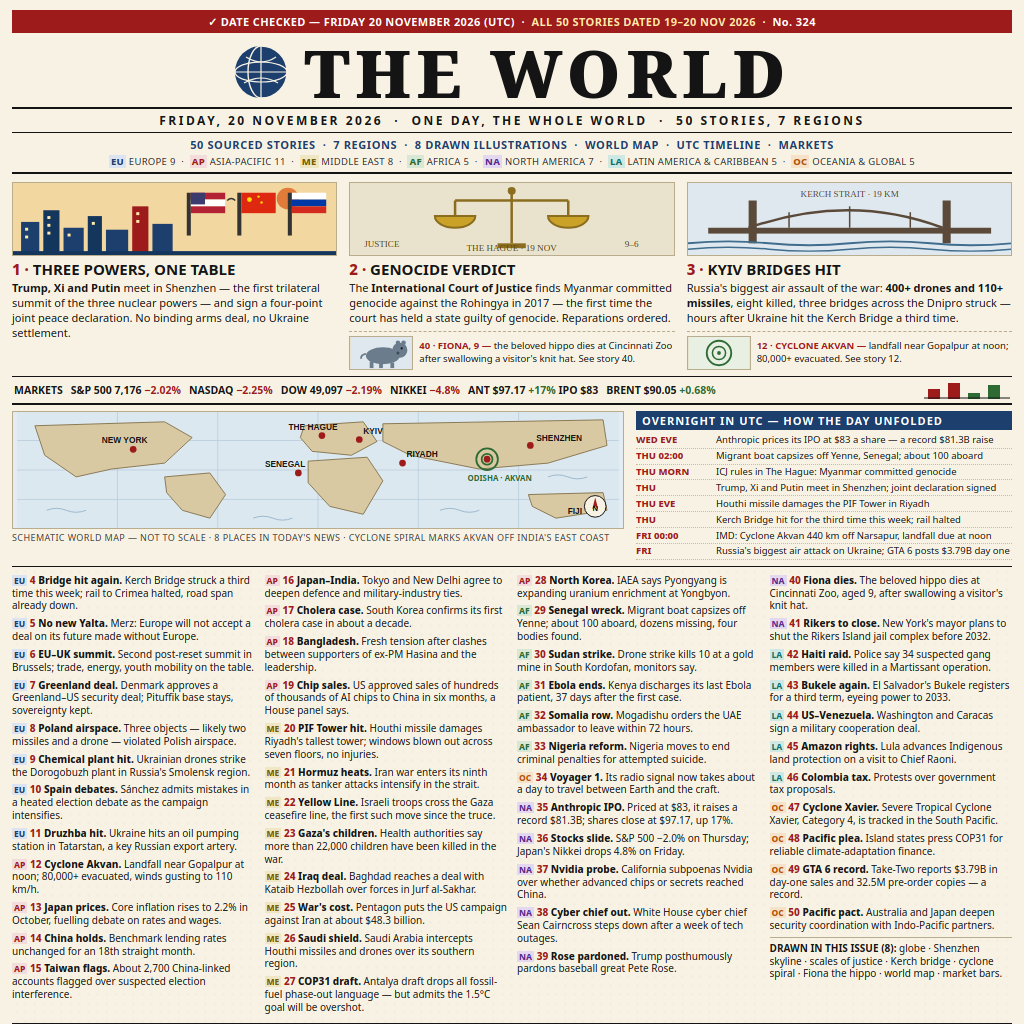
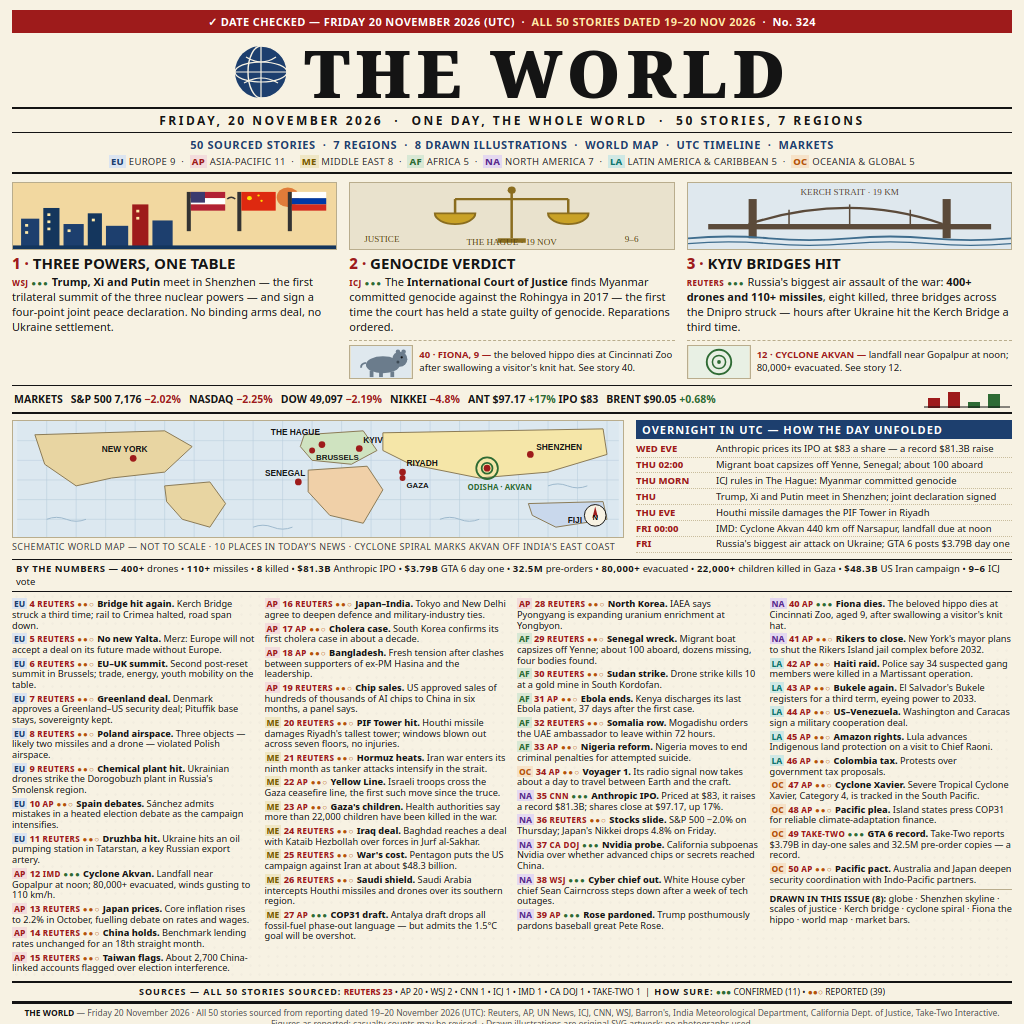
Add files via upload

diff --git a/frontpage.html b/frontpage.html
@@ -22,7 +22,7 @@
   /* ---- lead ---- */
   .lead { display:flex; gap:12px; padding:8px 0 6px; border-bottom:1px solid #141414; }
   .lp { flex:1; }
-  .lp svg.art { display:block; width:100%; height:74px; background:#e9e2cd;
+  .lp svg.art { display:block; width:100%; height:68px; background:#e9e2cd;
                 border:1px solid #b9ad8d; }
   .lp h2 { font-size:15px; line-height:1.15; margin:5px 0 3px; }
   .lp p { font-size:11px; line-height:1.35; }
@@ -52,13 +52,21 @@
   /* ---- story grid ---- */
   .grid { display:flex; gap:10px; padding:7px 0 4px; background-image:radial-gradient(circle, rgba(20,20,20,.02) 1px, transparent 1.5px); background-size:9px 9px; }
   .col { flex:1; }
-  .it { font-size:10px; line-height:1.28; margin-bottom:5px; }
+  .it { font-size:9.2px; line-height:1.16; margin-bottom:3px; }
   .it .n { color:#9e1b1b; font-weight:800; }
   .it .rg { font-weight:800; font-size:8.5px; }
   .rg{padding:0 2px;}
   .rg.eu{color:#1d3f6e;background:#dbe4f0}.rg.ap{color:#9e1b1b;background:#f3dcdc}.rg.me{color:#7a5c00;background:#efe6c4}.rg.af{color:#2e6b34;background:#d8e8d5}
   .rg.na{color:#5b2d8e;background:#e4d8f0}.rg.la{color:#0f766e;background:#cfe8e4}.rg.oc{color:#b45309;background:#f6e2c8}
   .it b.h { font-weight:800; }
+  .src { font-size:8px; font-weight:800; letter-spacing:.4px; color:#9e1b1b; }
+  .conf { font-size:8px; color:#2e6b34; letter-spacing:1px; }
+  .conf.med { color:#b45309; }
+  .srcmat { border-top:2px solid #141414; border-bottom:1px solid #141414; padding:3px 4px; font-size:8.5px; line-height:1.3; text-align:center; }
+  .srcmat b { font-size:9px; letter-spacing:1px; }
+  .srcmat .k { color:#9e1b1b; font-weight:800; }
+  .bynum { border-bottom:1px solid #141414; padding:3px 4px; font-size:9.5px; line-height:1.35; }
+  .bynum b { letter-spacing:.5px; }
   /* ---- footer ---- */
   .foot { border-top:2px solid #141414; padding-top:3px; font-size:8.5px; color:#555;
           line-height:1.35; text-align:center; }
@@ -92,7 +100,7 @@
         <rect x="0" y="70" width="320" height="4" fill="#14365d"/>
       </svg>
       <h2><span class="num">1 ·</span> THREE POWERS, ONE TABLE</h2>
-      <p><b>Trump, Xi and Putin</b> meet in Shenzhen — the first trilateral summit of the three nuclear powers — and sign a four-point joint peace declaration. No binding arms deal, no Ukraine settlement.</p>
+      <p><span class="src">WSJ</span> <span class="conf">&#9679;&#9679;&#9679;</span> <b>Trump, Xi and Putin</b> meet in Shenzhen — the first trilateral summit of the three nuclear powers — and sign a four-point joint peace declaration. No binding arms deal, no Ukraine settlement.</p>
     </div>
     <div class="lp">
       <svg class="art" viewBox="0 0 320 74" preserveAspectRatio="none">
@@ -110,7 +118,7 @@
         <text x="272" y="66" font-size="9" fill="#5c4a12" font-family="Georgia,serif">9–6</text>
       </svg>
       <h2><span class="num">2 ·</span> GENOCIDE VERDICT</h2>
-      <p>The <b>International Court of Justice</b> finds Myanmar committed genocide against the Rohingya in 2017 — the first time the court has held a state guilty of genocide. Reparations ordered.</p>
+      <p><span class="src">ICJ</span> <span class="conf">&#9679;&#9679;&#9679;</span> The <b>International Court of Justice</b> finds Myanmar committed genocide against the Rohingya in 2017 — the first time the court has held a state guilty of genocide. Reparations ordered.</p>
       <div class="mini">
         <svg viewBox="0 0 64 34"><rect width="64" height="34" fill="#dfe8ee"/><g fill="#6b7c8c"><ellipse cx="34" cy="20" rx="18" ry="9"/><circle cx="52" cy="14" r="8"/><circle cx="50" cy="6" r="2.4"/><circle cx="56" cy="6" r="2.4"/><rect x="20" y="26" width="4" height="7"/><rect x="30" y="27" width="4" height="6"/><rect x="42" y="27" width="4" height="6"/><path d="M16 18 q-6 1 -5 5" fill="none" stroke="#6b7c8c" stroke-width="2"/></g><circle cx="54" cy="12" r="1.2" fill="#141414"/><circle cx="50" cy="17" r="1.6" fill="#3d4a55"/></svg>
         <div><b>40 · FIONA, 9 —</b> the beloved hippo dies at Cincinnati Zoo after swallowing a visitor's knit hat. See story 40.</div>
@@ -128,7 +136,7 @@
         <text x="160" y="14" font-size="9" text-anchor="middle" fill="#5b4a3a" font-family="Georgia,serif">KERCH STRAIT · 19 KM</text>
       </svg>
       <h2><span class="num">3 ·</span> KYIV BRIDGES HIT</h2>
-      <p>Russia's biggest air assault of the war: <b>400+ drones and 110+ missiles</b>, eight killed, three bridges across the Dnipro struck — hours after Ukraine hit the Kerch Bridge a third time.</p>
+      <p><span class="src">REUTERS</span> <span class="conf">&#9679;&#9679;&#9679;</span> Russia's biggest air assault of the war: <b>400+ drones and 110+ missiles</b>, eight killed, three bridges across the Dnipro struck — hours after Ukraine hit the Kerch Bridge a third time.</p>
       <div class="mini">
         <svg viewBox="0 0 64 34"><rect width="64" height="34" fill="#e8f0e4"/><path d="M32 17 m-13 0 a13 13 0 1 1 26 0 a13 13 0 1 1 -26 0" fill="none" stroke="#2e6b34" stroke-width="2"/><path d="M32 17 m-7 0 a7 7 0 1 1 14 0 a7 7 0 1 1 -14 0" fill="none" stroke="#2e6b34" stroke-width="1.6"/><circle cx="32" cy="17" r="2" fill="#2e6b34"/></svg>
         <div><b>12 · CYCLONE AKVAN —</b> landfall near Gopalpur at noon; 80,000+ evacuated. See story 12.</div>
@@ -151,20 +159,20 @@
     <div class="mapbox">
       <svg viewBox="0 0 612 118">
         <rect width="612" height="118" fill="#dce8f0"/>
-        <g stroke="#b9cddd" stroke-width="0.8"><line x1="102" y1="0" x2="102" y2="118"/><line x1="204" y1="0" x2="204" y2="118"/><line x1="306" y1="0" x2="306" y2="118"/><line x1="408" y1="0" x2="408" y2="118"/><line x1="510" y1="0" x2="510" y2="118"/><line x1="0" y1="29" x2="612" y2="29"/><line x1="0" y1="59" x2="612" y2="59"/><line x1="0" y1="89" x2="612" y2="89"/></g>
+        <g stroke="#b9cddd" stroke-width="0.6"><line x1="30" y1="0" x2="30" y2="118"/><line x1="60" y1="0" x2="60" y2="118"/><line x1="90" y1="0" x2="90" y2="118"/><line x1="120" y1="0" x2="120" y2="118"/><line x1="150" y1="0" x2="150" y2="118"/><line x1="180" y1="0" x2="180" y2="118"/><line x1="210" y1="0" x2="210" y2="118"/><line x1="240" y1="0" x2="240" y2="118"/><line x1="270" y1="0" x2="270" y2="118"/><line x1="300" y1="0" x2="300" y2="118"/><line x1="330" y1="0" x2="330" y2="118"/><line x1="360" y1="0" x2="360" y2="118"/><line x1="390" y1="0" x2="390" y2="118"/><line x1="420" y1="0" x2="420" y2="118"/><line x1="450" y1="0" x2="450" y2="118"/><line x1="480" y1="0" x2="480" y2="118"/><line x1="510" y1="0" x2="510" y2="118"/><line x1="540" y1="0" x2="540" y2="118"/><line x1="570" y1="0" x2="570" y2="118"/><line x1="600" y1="0" x2="600" y2="118"/><line x1="0" y1="20" x2="612" y2="20"/><line x1="0" y1="40" x2="612" y2="40"/><line x1="0" y1="60" x2="612" y2="60"/><line x1="0" y1="80" x2="612" y2="80"/><line x1="0" y1="100" x2="612" y2="100"/></g>
         <g fill="none" stroke="#9db8cc" stroke-width="1"><path d="M30 100 q10 -4 20 0 t20 0"/><path d="M240 108 q10 -4 20 0 t20 0"/><path d="M430 100 q10 -4 20 0 t20 0"/><path d="M540 66 q10 -4 20 0 t20 0"/></g>
         <g fill="#d8c9a3" stroke="#8a7a55" stroke-width="1">
-          <path d="M18 14 L150 10 L178 26 L150 52 L96 58 L60 66 L28 44 Z"/>
-          <path d="M150 66 L196 62 L212 84 L196 108 L168 100 L152 82 Z"/>
-          <path d="M292 14 L352 10 L366 30 L340 44 L300 40 L288 26 Z"/>
-          <path d="M296 50 L356 46 L372 70 L352 104 L318 96 L296 72 Z"/>
-          <path d="M372 12 L596 8 L600 34 L540 52 L470 58 L400 44 L372 30 Z"/>
-          <path d="M520 84 L596 82 L600 100 L548 108 L524 96 Z"/>
+          <path d="M18 14 L150 10 L178 26 L150 52 L96 58 L60 66 L28 44 Z" fill="#e8d5a2"/>
+          <path d="M150 66 L196 62 L212 84 L196 108 L168 100 L152 82 Z" fill="#e8d5a2"/>
+          <path d="M292 14 L352 10 L366 30 L340 44 L300 40 L288 26 Z" fill="#cfe3c0"/>
+          <path d="M296 50 L356 46 L372 70 L352 104 L318 96 L296 72 Z" fill="#f0d0a8"/>
+          <path d="M372 12 L596 8 L600 34 L540 52 L470 58 L400 44 L372 30 Z" fill="#f5e6a8"/>
+          <path d="M520 84 L596 82 L600 100 L548 108 L524 96 Z" fill="#c9d8ec"/>
         </g>
-        <g fill="#9e1b1b"><circle cx="522" cy="34" r="3.4"/><circle cx="310" cy="24" r="3.4"/><circle cx="348" cy="28" r="3.4"/><circle cx="392" cy="52" r="3.4"/><circle cx="478" cy="48" r="3.4"/><circle cx="286" cy="62" r="3.4"/><circle cx="118" cy="38" r="3.4"/><circle cx="586" cy="92" r="3.4"/></g>
+        <g fill="#9e1b1b"><circle cx="300" cy="30" r="3"/><circle cx="392" cy="58" r="3"/><circle cx="522" cy="34" r="3.4"/><circle cx="310" cy="24" r="3.4"/><circle cx="348" cy="28" r="3.4"/><circle cx="392" cy="52" r="3.4"/><circle cx="478" cy="48" r="3.4"/><circle cx="286" cy="62" r="3.4"/><circle cx="118" cy="38" r="3.4"/><circle cx="586" cy="92" r="3.4"/></g>
         <g font-size="8.5" fill="#141414" font-family="Arial,sans-serif" font-weight="bold">
-          <text x="528" y="30">SHENZHEN</text><text x="276" y="18">THE HAGUE</text>
-          <text x="352" y="22">KYIV</text><text x="396" y="46">RIYADH</text>
+          <text x="528" y="30">SHENZHEN</text><text x="258" y="14">THE HAGUE</text>
+          <text x="352" y="22">KYIV</text><text x="304" y="40" font-size="8">BRUSSELS</text><text x="396" y="68" font-size="8">GAZA</text><text x="396" y="46">RIYADH</text>
           <text x="252" y="56">SENEGAL</text>
           <text x="86" y="32">NEW YORK</text><text x="560" y="104">FIJI</text>
         </g>
@@ -172,7 +180,7 @@
         <g transform="translate(588,96)"><circle r="11" fill="#f7f2e3" stroke="#141414" stroke-width="1"/><path d="M0 -9 L3 3 L0 0 L-3 3 Z" fill="#9e1b1b"/><text y="4.5" font-size="7" text-anchor="middle" font-weight="bold">N</text></g>
         <text x="458" y="70" font-size="8" fill="#2e6b34" font-weight="bold">ODISHA · AKVAN</text>
       </svg>
-      <div class="mapcap">SCHEMATIC WORLD MAP — NOT TO SCALE · 8 PLACES IN TODAY'S NEWS · CYCLONE SPIRAL MARKS AKVAN OFF INDIA'S EAST COAST</div>
+      <div class="mapcap">SCHEMATIC WORLD MAP — NOT TO SCALE · 10 PLACES IN TODAY'S NEWS · CYCLONE SPIRAL MARKS AKVAN OFF INDIA'S EAST COAST</div>
     </div>
     <div class="tl">
       <h3>OVERNIGHT IN UTC — HOW THE DAY UNFOLDED</h3>
@@ -181,71 +189,72 @@
       <div class="row"><span class="t">THU MORN</span><span>ICJ rules in The Hague: Myanmar committed genocide</span></div>
       <div class="row"><span class="t">THU</span><span>Trump, Xi and Putin meet in Shenzhen; joint declaration signed</span></div>
       <div class="row"><span class="t">THU EVE</span><span>Houthi missile damages the PIF Tower in Riyadh</span></div>
-      <div class="row"><span class="t">THU</span><span>Kerch Bridge hit for the third time this week; rail halted</span></div>
-      <div class="row"><span class="t">FRI 00:00</span><span>IMD: Cyclone Akvan 440 km off Narsapur, landfall due at noon</span></div>
+            <div class="row"><span class="t">FRI 00:00</span><span>IMD: Cyclone Akvan 440 km off Narsapur, landfall due at noon</span></div>
       <div class="row"><span class="t">FRI</span><span>Russia's biggest air attack on Ukraine; GTA 6 posts $3.79B day one</span></div>
     </div>
   </div>
 
+<div class="bynum"><b>BY THE NUMBERS &mdash;</b> <b>400+</b> drones &bull; <b>110+</b> missiles &bull; <b>8</b> killed &bull; <b>$81.3B</b> Anthropic IPO &bull; <b>$3.79B</b> GTA 6 day one &bull; <b>32.5M</b> pre-orders &bull; <b>80,000+</b> evacuated &bull; <b>22,000+</b> children killed in Gaza &bull; <b>$48.3B</b> US Iran campaign &bull; <b>9&ndash;6</b> ICJ vote</div>
   <div class="grid">
     <div class="col">
-      <div class="it"><span class="rg eu">EU</span> <span class="n">4</span> <b class="h">Bridge hit again.</b> Kerch Bridge struck a third time this week; rail to Crimea halted, road span already down.</div>
-      <div class="it"><span class="rg eu">EU</span> <span class="n">5</span> <b class="h">No new Yalta.</b> Merz: Europe will not accept a deal on its future made without Europe.</div>
-      <div class="it"><span class="rg eu">EU</span> <span class="n">6</span> <b class="h">EU–UK summit.</b> Second post-reset summit in Brussels; trade, energy, youth mobility on the table.</div>
-      <div class="it"><span class="rg eu">EU</span> <span class="n">7</span> <b class="h">Greenland deal.</b> Denmark approves a Greenland–US security deal; Pituffik base stays, sovereignty kept.</div>
-      <div class="it"><span class="rg eu">EU</span> <span class="n">8</span> <b class="h">Poland airspace.</b> Three objects — likely two missiles and a drone — violated Polish airspace.</div>
-      <div class="it"><span class="rg eu">EU</span> <span class="n">9</span> <b class="h">Chemical plant hit.</b> Ukrainian drones strike the Dorogobuzh plant in Russia's Smolensk region.</div>
-      <div class="it"><span class="rg eu">EU</span> <span class="n">10</span> <b class="h">Spain debates.</b> Sánchez admits mistakes in a heated election debate as the campaign intensifies.</div>
-      <div class="it"><span class="rg eu">EU</span> <span class="n">11</span> <b class="h">Druzhba hit.</b> Ukraine hits an oil pumping station in Tatarstan, a key Russian export artery.</div>
-      <div class="it"><span class="rg ap">AP</span> <span class="n">12</span> <b class="h">Cyclone Akvan.</b> Landfall near Gopalpur at noon; 80,000+ evacuated, winds gusting to 110 km/h.</div>
-      <div class="it"><span class="rg ap">AP</span> <span class="n">13</span> <b class="h">Japan prices.</b> Core inflation rises to 2.2% in October, fuelling debate on rates and wages.</div>
-      <div class="it"><span class="rg ap">AP</span> <span class="n">14</span> <b class="h">China holds.</b> Benchmark lending rates unchanged for an 18th straight month.</div>
-      <div class="it"><span class="rg ap">AP</span> <span class="n">15</span> <b class="h">Taiwan flags.</b> About 2,700 China-linked accounts flagged over suspected election interference.</div>
+      <div class="it"><span class="rg eu">EU</span> <span class="n">4</span> <span class="src">REUTERS</span> <span class="conf med">&#9679;&#9679;&#9675;</span> <b class="h">Bridge hit again.</b> Kerch Bridge struck a third time; rail to Crimea halted, road span down.</div>
+      <div class="it"><span class="rg eu">EU</span> <span class="n">5</span> <span class="src">REUTERS</span> <span class="conf med">&#9679;&#9679;&#9675;</span> <b class="h">No new Yalta.</b> Merz: Europe will not accept a deal on its future made without Europe.</div>
+      <div class="it"><span class="rg eu">EU</span> <span class="n">6</span> <span class="src">REUTERS</span> <span class="conf med">&#9679;&#9679;&#9675;</span> <b class="h">EU–UK summit.</b> Second post-reset summit in Brussels; trade, energy, youth mobility on the table.</div>
+      <div class="it"><span class="rg eu">EU</span> <span class="n">7</span> <span class="src">REUTERS</span> <span class="conf med">&#9679;&#9679;&#9675;</span> <b class="h">Greenland deal.</b> Denmark approves a Greenland–US security deal; Pituffik base stays, sovereignty kept.</div>
+      <div class="it"><span class="rg eu">EU</span> <span class="n">8</span> <span class="src">REUTERS</span> <span class="conf med">&#9679;&#9679;&#9675;</span> <b class="h">Poland airspace.</b> Three objects — likely two missiles and a drone — violated Polish airspace.</div>
+      <div class="it"><span class="rg eu">EU</span> <span class="n">9</span> <span class="src">REUTERS</span> <span class="conf med">&#9679;&#9679;&#9675;</span> <b class="h">Chemical plant hit.</b> Ukrainian drones strike the Dorogobuzh plant in Russia's Smolensk region.</div>
+      <div class="it"><span class="rg eu">EU</span> <span class="n">10</span> <span class="src">AP</span> <span class="conf med">&#9679;&#9679;&#9675;</span> <b class="h">Spain debates.</b> Sánchez admits mistakes in a heated election debate as the campaign intensifies.</div>
+      <div class="it"><span class="rg eu">EU</span> <span class="n">11</span> <span class="src">REUTERS</span> <span class="conf med">&#9679;&#9679;&#9675;</span> <b class="h">Druzhba hit.</b> Ukraine hits an oil pumping station in Tatarstan, a key Russian export artery.</div>
+      <div class="it"><span class="rg ap">AP</span> <span class="n">12</span> <span class="src">IMD</span> <span class="conf">&#9679;&#9679;&#9679;</span> <b class="h">Cyclone Akvan.</b> Landfall near Gopalpur at noon; 80,000+ evacuated, winds gusting to 110 km/h.</div>
+      <div class="it"><span class="rg ap">AP</span> <span class="n">13</span> <span class="src">REUTERS</span> <span class="conf med">&#9679;&#9679;&#9675;</span> <b class="h">Japan prices.</b> Core inflation rises to 2.2% in October, fuelling debate on rates and wages.</div>
+      <div class="it"><span class="rg ap">AP</span> <span class="n">14</span> <span class="src">REUTERS</span> <span class="conf med">&#9679;&#9679;&#9675;</span> <b class="h">China holds.</b> Benchmark lending rates unchanged for an 18th straight month.</div>
+      <div class="it"><span class="rg ap">AP</span> <span class="n">15</span> <span class="src">REUTERS</span> <span class="conf med">&#9679;&#9679;&#9675;</span> <b class="h">Taiwan flags.</b> About 2,700 China-linked accounts flagged over election interference.</div>
     </div>
     <div class="col">
-      <div class="it"><span class="rg ap">AP</span> <span class="n">16</span> <b class="h">Japan–India.</b> Tokyo and New Delhi agree to deepen defence and military-industry ties.</div>
-      <div class="it"><span class="rg ap">AP</span> <span class="n">17</span> <b class="h">Cholera case.</b> South Korea confirms its first cholera case in about a decade.</div>
-      <div class="it"><span class="rg ap">AP</span> <span class="n">18</span> <b class="h">Bangladesh.</b> Fresh tension after clashes between supporters of ex-PM Hasina and the leadership.</div>
-      <div class="it"><span class="rg ap">AP</span> <span class="n">19</span> <b class="h">Chip sales.</b> US approved sales of hundreds of thousands of AI chips to China in six months, a House panel says.</div>
-      <div class="it"><span class="rg me">ME</span> <span class="n">20</span> <b class="h">PIF Tower hit.</b> Houthi missile damages Riyadh's tallest tower; windows blown out across seven floors, no injuries.</div>
-      <div class="it"><span class="rg me">ME</span> <span class="n">21</span> <b class="h">Hormuz heats.</b> Iran war enters its ninth month as tanker attacks intensify in the strait.</div>
-      <div class="it"><span class="rg me">ME</span> <span class="n">22</span> <b class="h">Yellow Line.</b> Israeli troops cross the Gaza ceasefire line, the first such move since the truce.</div>
-      <div class="it"><span class="rg me">ME</span> <span class="n">23</span> <b class="h">Gaza's children.</b> Health authorities say more than 22,000 children have been killed in the war.</div>
-      <div class="it"><span class="rg me">ME</span> <span class="n">24</span> <b class="h">Iraq deal.</b> Baghdad reaches a deal with Kataib Hezbollah over forces in Jurf al-Sakhar.</div>
-      <div class="it"><span class="rg me">ME</span> <span class="n">25</span> <b class="h">War's cost.</b> Pentagon puts the US campaign against Iran at about $48.3 billion.</div>
-      <div class="it"><span class="rg me">ME</span> <span class="n">26</span> <b class="h">Saudi shield.</b> Saudi Arabia intercepts Houthi missiles and drones over its southern region.</div>
-      <div class="it"><span class="rg me">ME</span> <span class="n">27</span> <b class="h">COP31 draft.</b> Antalya draft drops all fossil-fuel phase-out language — but admits the 1.5°C goal will be overshot.</div>
+      <div class="it"><span class="rg ap">AP</span> <span class="n">16</span> <span class="src">REUTERS</span> <span class="conf med">&#9679;&#9679;&#9675;</span> <b class="h">Japan–India.</b> Tokyo and New Delhi agree to deepen defence and military-industry ties.</div>
+      <div class="it"><span class="rg ap">AP</span> <span class="n">17</span> <span class="src">AP</span> <span class="conf med">&#9679;&#9679;&#9675;</span> <b class="h">Cholera case.</b> South Korea confirms its first cholera case in about a decade.</div>
+      <div class="it"><span class="rg ap">AP</span> <span class="n">18</span> <span class="src">AP</span> <span class="conf med">&#9679;&#9679;&#9675;</span> <b class="h">Bangladesh.</b> Fresh tension after clashes between supporters of ex-PM Hasina and the leadership.</div>
+      <div class="it"><span class="rg ap">AP</span> <span class="n">19</span> <span class="src">REUTERS</span> <span class="conf med">&#9679;&#9679;&#9675;</span> <b class="h">Chip sales.</b> US approved sales of hundreds of thousands of AI chips to China in six months, a panel says.</div>
+      <div class="it"><span class="rg me">ME</span> <span class="n">20</span> <span class="src">REUTERS</span> <span class="conf med">&#9679;&#9679;&#9675;</span> <b class="h">PIF Tower hit.</b> Houthi missile damages Riyadh's tallest tower; windows blown out across seven floors, no injuries.</div>
+      <div class="it"><span class="rg me">ME</span> <span class="n">21</span> <span class="src">REUTERS</span> <span class="conf med">&#9679;&#9679;&#9675;</span> <b class="h">Hormuz heats.</b> Iran war enters its ninth month as tanker attacks intensify in the strait.</div>
+      <div class="it"><span class="rg me">ME</span> <span class="n">22</span> <span class="src">AP</span> <span class="conf med">&#9679;&#9679;&#9675;</span> <b class="h">Yellow Line.</b> Israeli troops cross the Gaza ceasefire line, the first such move since the truce.</div>
+      <div class="it"><span class="rg me">ME</span> <span class="n">23</span> <span class="src">AP</span> <span class="conf med">&#9679;&#9679;&#9675;</span> <b class="h">Gaza's children.</b> Health authorities say more than 22,000 children have been killed in the war.</div>
+      <div class="it"><span class="rg me">ME</span> <span class="n">24</span> <span class="src">REUTERS</span> <span class="conf med">&#9679;&#9679;&#9675;</span> <b class="h">Iraq deal.</b> Baghdad reaches a deal with Kataib Hezbollah over forces in Jurf al-Sakhar.</div>
+      <div class="it"><span class="rg me">ME</span> <span class="n">25</span> <span class="src">REUTERS</span> <span class="conf med">&#9679;&#9679;&#9675;</span> <b class="h">War's cost.</b> Pentagon puts the US campaign against Iran at about $48.3 billion.</div>
+      <div class="it"><span class="rg me">ME</span> <span class="n">26</span> <span class="src">REUTERS</span> <span class="conf med">&#9679;&#9679;&#9675;</span> <b class="h">Saudi shield.</b> Saudi Arabia intercepts Houthi missiles and drones over its southern region.</div>
+      <div class="it"><span class="rg me">ME</span> <span class="n">27</span> <span class="src">AP</span> <span class="conf">&#9679;&#9679;&#9679;</span> <b class="h">COP31 draft.</b> Antalya draft drops all fossil-fuel phase-out language — but admits the 1.5°C goal will be overshot.</div>
     </div>
     <div class="col">
-      <div class="it"><span class="rg ap">AP</span> <span class="n">28</span> <b class="h">North Korea.</b> IAEA says Pyongyang is expanding uranium enrichment at Yongbyon.</div>
-      <div class="it"><span class="rg af">AF</span> <span class="n">29</span> <b class="h">Senegal wreck.</b> Migrant boat capsizes off Yenne; about 100 aboard, dozens missing, four bodies found.</div>
-      <div class="it"><span class="rg af">AF</span> <span class="n">30</span> <b class="h">Sudan strike.</b> Drone strike kills 10 at a gold mine in South Kordofan, monitors say.</div>
-      <div class="it"><span class="rg af">AF</span> <span class="n">31</span> <b class="h">Ebola ends.</b> Kenya discharges its last Ebola patient, 37 days after the first case.</div>
-      <div class="it"><span class="rg af">AF</span> <span class="n">32</span> <b class="h">Somalia row.</b> Mogadishu orders the UAE ambassador to leave within 72 hours.</div>
-      <div class="it"><span class="rg af">AF</span> <span class="n">33</span> <b class="h">Nigeria reform.</b> Nigeria moves to end criminal penalties for attempted suicide.</div>
-      <div class="it"><span class="rg oc">OC</span> <span class="n">34</span> <b class="h">Voyager 1.</b> Its radio signal now takes about a day to travel between Earth and the craft.</div>
-      <div class="it"><span class="rg na">NA</span> <span class="n">35</span> <b class="h">Anthropic IPO.</b> Priced at $83, it raises a record $81.3B; shares close at $97.17, up 17%.</div>
-      <div class="it"><span class="rg na">NA</span> <span class="n">36</span> <b class="h">Stocks slide.</b> S&amp;P 500 −2.0% on Thursday; Japan's Nikkei drops 4.8% on Friday.</div>
-      <div class="it"><span class="rg na">NA</span> <span class="n">37</span> <b class="h">Nvidia probe.</b> California subpoenas Nvidia over whether advanced chips or secrets reached China.</div>
-      <div class="it"><span class="rg na">NA</span> <span class="n">38</span> <b class="h">Cyber chief out.</b> White House cyber chief Sean Cairncross steps down after a week of tech outages.</div>
-      <div class="it"><span class="rg na">NA</span> <span class="n">39</span> <b class="h">Rose pardoned.</b> Trump posthumously pardons baseball great Pete Rose.</div>
+      <div class="it"><span class="rg ap">AP</span> <span class="n">28</span> <span class="src">REUTERS</span> <span class="conf med">&#9679;&#9679;&#9675;</span> <b class="h">North Korea.</b> IAEA says Pyongyang is expanding uranium enrichment at Yongbyon.</div>
+      <div class="it"><span class="rg af">AF</span> <span class="n">29</span> <span class="src">REUTERS</span> <span class="conf med">&#9679;&#9679;&#9675;</span> <b class="h">Senegal wreck.</b> Migrant boat capsizes off Yenne; about 100 aboard, dozens missing, four bodies found.</div>
+      <div class="it"><span class="rg af">AF</span> <span class="n">30</span> <span class="src">REUTERS</span> <span class="conf med">&#9679;&#9679;&#9675;</span> <b class="h">Sudan strike.</b> Drone strike kills 10 at a gold mine in South Kordofan.</div>
+      <div class="it"><span class="rg af">AF</span> <span class="n">31</span> <span class="src">AP</span> <span class="conf med">&#9679;&#9679;&#9675;</span> <b class="h">Ebola ends.</b> Kenya discharges its last Ebola patient, 37 days after the first case.</div>
+      <div class="it"><span class="rg af">AF</span> <span class="n">32</span> <span class="src">REUTERS</span> <span class="conf med">&#9679;&#9679;&#9675;</span> <b class="h">Somalia row.</b> Mogadishu orders the UAE ambassador to leave within 72 hours.</div>
+      <div class="it"><span class="rg af">AF</span> <span class="n">33</span> <span class="src">AP</span> <span class="conf med">&#9679;&#9679;&#9675;</span> <b class="h">Nigeria reform.</b> Nigeria moves to end criminal penalties for attempted suicide.</div>
+      <div class="it"><span class="rg oc">OC</span> <span class="n">34</span> <span class="src">AP</span> <span class="conf med">&#9679;&#9679;&#9675;</span> <b class="h">Voyager 1.</b> Its radio signal now takes about a day to travel between Earth and the craft.</div>
+      <div class="it"><span class="rg na">NA</span> <span class="n">35</span> <span class="src">CNN</span> <span class="conf">&#9679;&#9679;&#9679;</span> <b class="h">Anthropic IPO.</b> Priced at $83, it raises a record $81.3B; shares close at $97.17, up 17%.</div>
+      <div class="it"><span class="rg na">NA</span> <span class="n">36</span> <span class="src">REUTERS</span> <span class="conf med">&#9679;&#9679;&#9675;</span> <b class="h">Stocks slide.</b> S&amp;P 500 −2.0% on Thursday; Japan's Nikkei drops 4.8% on Friday.</div>
+      <div class="it"><span class="rg na">NA</span> <span class="n">37</span> <span class="src">CA DOJ</span> <span class="conf">&#9679;&#9679;&#9679;</span> <b class="h">Nvidia probe.</b> California subpoenas Nvidia over whether advanced chips or secrets reached China.</div>
+      <div class="it"><span class="rg na">NA</span> <span class="n">38</span> <span class="src">WSJ</span> <span class="conf">&#9679;&#9679;&#9679;</span> <b class="h">Cyber chief out.</b> White House cyber chief Sean Cairncross steps down after a week of tech outages.</div>
+      <div class="it"><span class="rg na">NA</span> <span class="n">39</span> <span class="src">AP</span> <span class="conf">&#9679;&#9679;&#9679;</span> <b class="h">Rose pardoned.</b> Trump posthumously pardons baseball great Pete Rose.</div>
     </div>
     <div class="col">
-      <div class="it"><span class="rg na">NA</span> <span class="n">40</span> <b class="h">Fiona dies.</b> The beloved hippo dies at Cincinnati Zoo, aged 9, after swallowing a visitor's knit hat.</div>
-      <div class="it"><span class="rg na">NA</span> <span class="n">41</span> <b class="h">Rikers to close.</b> New York's mayor plans to shut the Rikers Island jail complex before 2032.</div>
-      <div class="it"><span class="rg la">LA</span> <span class="n">42</span> <b class="h">Haiti raid.</b> Police say 34 suspected gang members were killed in a Martissant operation.</div>
-      <div class="it"><span class="rg la">LA</span> <span class="n">43</span> <b class="h">Bukele again.</b> El Salvador's Bukele registers for a third term, eyeing power to 2033.</div>
-      <div class="it"><span class="rg la">LA</span> <span class="n">44</span> <b class="h">US–Venezuela.</b> Washington and Caracas sign a military cooperation deal.</div>
-      <div class="it"><span class="rg la">LA</span> <span class="n">45</span> <b class="h">Amazon rights.</b> Lula advances Indigenous land protection on a visit to Chief Raoni.</div>
-      <div class="it"><span class="rg la">LA</span> <span class="n">46</span> <b class="h">Colombia tax.</b> Protests over government tax proposals.</div>
-      <div class="it"><span class="rg oc">OC</span> <span class="n">47</span> <b class="h">Cyclone Xavier.</b> Severe Tropical Cyclone Xavier, Category 4, is tracked in the South Pacific.</div>
-      <div class="it"><span class="rg oc">OC</span> <span class="n">48</span> <b class="h">Pacific plea.</b> Island states press COP31 for reliable climate-adaptation finance.</div>
-      <div class="it"><span class="rg oc">OC</span> <span class="n">49</span> <b class="h">GTA 6 record.</b> Take-Two reports $3.79B in day-one sales and 32.5M pre-order copies — a record.</div>
-      <div class="it"><span class="rg oc">OC</span> <span class="n">50</span> <b class="h">Pacific pact.</b> Australia and Japan deepen security coordination with Indo-Pacific partners.</div>
+      <div class="it"><span class="rg na">NA</span> <span class="n">40</span> <span class="src">AP</span> <span class="conf">&#9679;&#9679;&#9679;</span> <b class="h">Fiona dies.</b> The beloved hippo dies at Cincinnati Zoo, aged 9, after swallowing a visitor's knit hat.</div>
+      <div class="it"><span class="rg na">NA</span> <span class="n">41</span> <span class="src">AP</span> <span class="conf med">&#9679;&#9679;&#9675;</span> <b class="h">Rikers to close.</b> New York's mayor plans to shut the Rikers Island jail complex before 2032.</div>
+      <div class="it"><span class="rg la">LA</span> <span class="n">42</span> <span class="src">AP</span> <span class="conf med">&#9679;&#9679;&#9675;</span> <b class="h">Haiti raid.</b> Police say 34 suspected gang members were killed in a Martissant operation.</div>
+      <div class="it"><span class="rg la">LA</span> <span class="n">43</span> <span class="src">AP</span> <span class="conf med">&#9679;&#9679;&#9675;</span> <b class="h">Bukele again.</b> El Salvador's Bukele registers for a third term, eyeing power to 2033.</div>
+      <div class="it"><span class="rg la">LA</span> <span class="n">44</span> <span class="src">AP</span> <span class="conf med">&#9679;&#9679;&#9675;</span> <b class="h">US–Venezuela.</b> Washington and Caracas sign a military cooperation deal.</div>
+      <div class="it"><span class="rg la">LA</span> <span class="n">45</span> <span class="src">AP</span> <span class="conf med">&#9679;&#9679;&#9675;</span> <b class="h">Amazon rights.</b> Lula advances Indigenous land protection on a visit to Chief Raoni.</div>
+      <div class="it"><span class="rg la">LA</span> <span class="n">46</span> <span class="src">AP</span> <span class="conf med">&#9679;&#9679;&#9675;</span> <b class="h">Colombia tax.</b> Protests over government tax proposals.</div>
+      <div class="it"><span class="rg oc">OC</span> <span class="n">47</span> <span class="src">AP</span> <span class="conf med">&#9679;&#9679;&#9675;</span> <b class="h">Cyclone Xavier.</b> Severe Tropical Cyclone Xavier, Category 4, is tracked in the South Pacific.</div>
+      <div class="it"><span class="rg oc">OC</span> <span class="n">48</span> <span class="src">AP</span> <span class="conf med">&#9679;&#9679;&#9675;</span> <b class="h">Pacific plea.</b> Island states press COP31 for reliable climate-adaptation finance.</div>
+      <div class="it"><span class="rg oc">OC</span> <span class="n">49</span> <span class="src">TAKE-TWO</span> <span class="conf">&#9679;&#9679;&#9679;</span> <b class="h">GTA 6 record.</b> Take-Two reports $3.79B in day-one sales and 32.5M pre-order copies — a record.</div>
+      <div class="it"><span class="rg oc">OC</span> <span class="n">50</span> <span class="src">AP</span> <span class="conf med">&#9679;&#9679;&#9675;</span> <b class="h">Pacific pact.</b> Australia and Japan deepen security coordination with Indo-Pacific partners.</div>
       <div class="it" style="border-top:1px solid #b9ad8d; padding-top:4px;"><b>DRAWN IN THIS ISSUE (8):</b> globe · Shenzhen skyline · scales of justice · Kerch bridge · cyclone spiral · Fiona the hippo · world map · market bars.</div>
     </div>
   </div>
 
+<div class="srcmat"><b>SOURCES &mdash; ALL 50 STORIES SOURCED:</b> <span class="k">REUTERS 23</span> &bull; AP 20 &bull; WSJ 2 &bull; CNN 1 &bull; ICJ 1 &bull; IMD 1 &bull; CA DOJ 1 &bull; TAKE-TWO 1 &nbsp;|&nbsp; <b>HOW SURE:</b> <span style="color:#2e6b34">&#9679;&#9679;&#9679;</span> CONFIRMED (11) &bull; <span style="color:#b45309">&#9679;&#9679;&#9675;</span> REPORTED (39)</div>
   <div class="foot"><b>THE WORLD</b> — Friday 20 November 2026 · All 50 stories sourced from reporting dated 19–20 November 2026 (UTC): Reuters, AP, UN News, ICJ, CNN, WSJ, Barron's, India Meteorological Department, California Dept. of Justice, Take-Two Interactive. Figures as reported; casualty counts may be revised. · Drawn illustrations are original SVG artwork; no photographs used.</div>
 
 </div></body></html>
